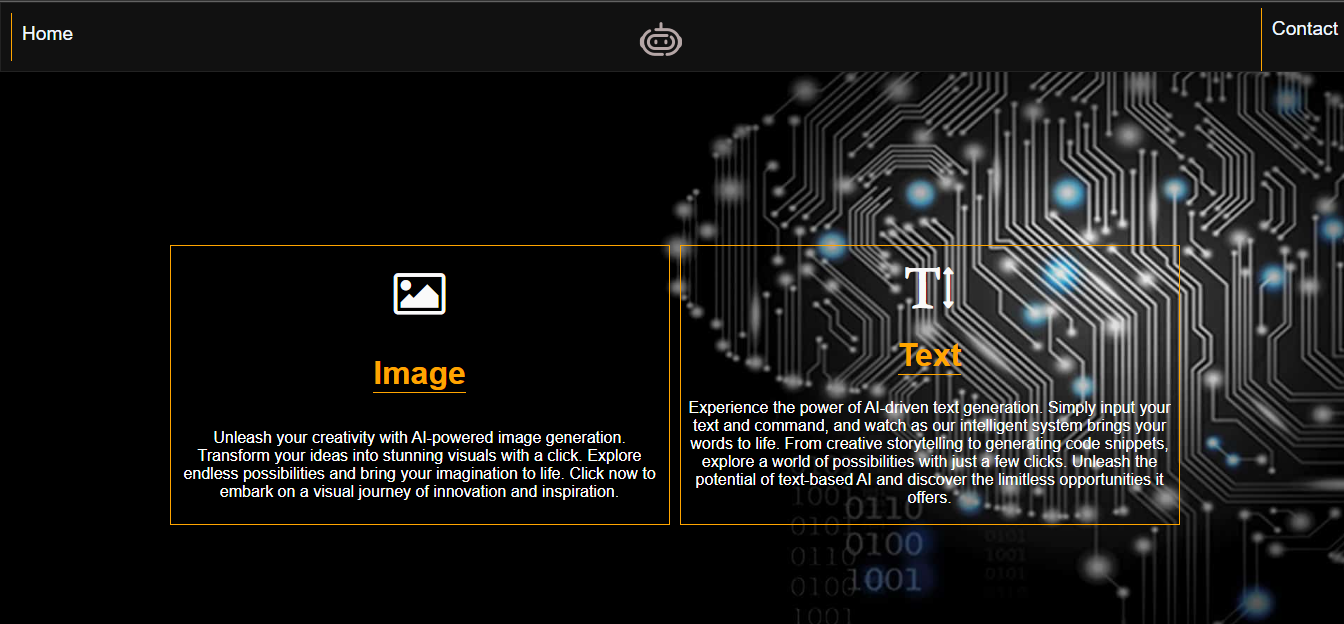
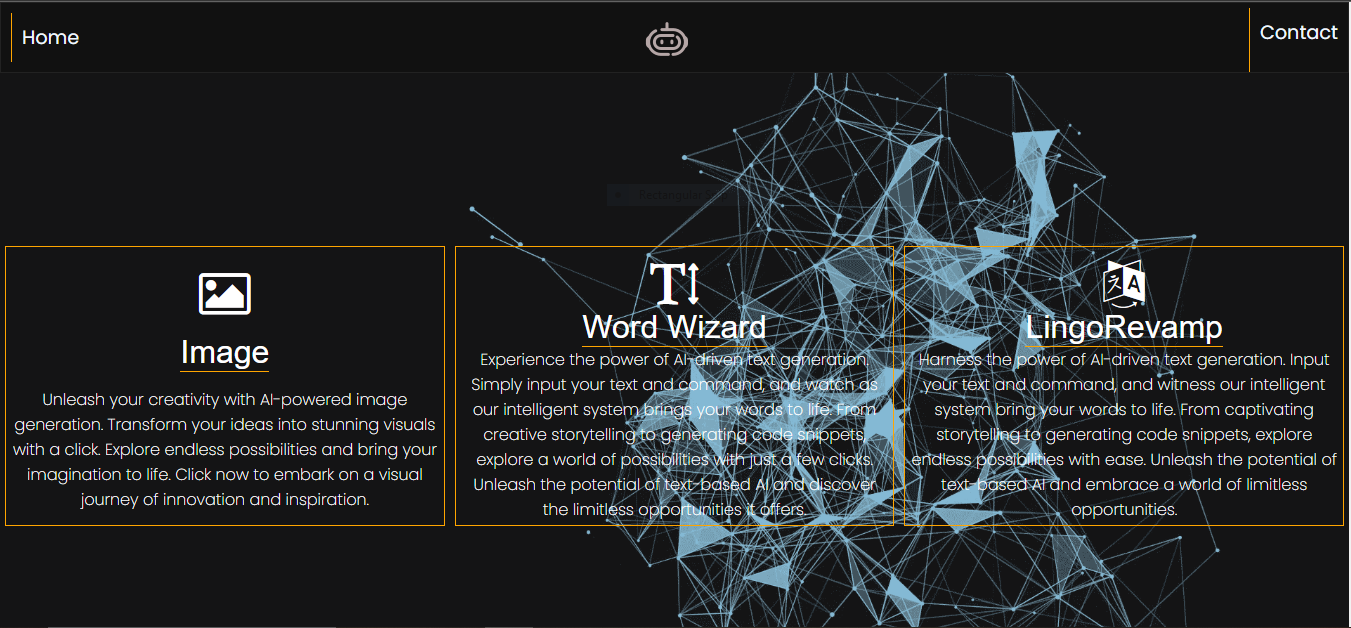
adding previous projects

diff --git a/index.html b/index.html
@@ -125,7 +125,7 @@ Let's collaborate and transform your ideas into reality! Contact me today to dis
               src="./src/images/Imagilingo.png"
               alt="Imagilingo.picture"
             />
-            <h3>Project Two</h3>
+            <h3>ImagiLingo</h3>
             <p class="subtext">Introducing Imagilingo, the ultimate fusion of images and language. This AI-powered web app is your creative companion and language guru. With just a few clicks, Imagilingo brings your text to life as captivating images.</p>
             <hr>
             <p class="subtext"><a class="project-link" href="https://imagi-lingo.vercel.app/">View here</a></p>
@@ -133,24 +133,24 @@ Let's collaborate and transform your ideas into reality! Contact me today to dis
             <div class="project-card">
               <img
                 class="project_img"
-                src="./src/images/youtube_profile_image.png"
+                src="./src/images/BotLangua.PNG"
                 alt="Imagilingo.picture"
               />
-              <h3>Project Three</h3>
-              <p class="subtext">This is my project and some text about it.</p>
+              <h3>BotLingua</h3>
+              <p class="subtext">BotLangua with Text-to-Speech allows you to engage in conversations with an intelligent ChatBot.  Utilize the built-in Text-to-Speech feature to listen to the ChatBot's answers in your chosen language.</p>
               <hr>
-              <p class="subtext"><a class="project-link" href="#">View here</a></p>
+              <p class="subtext"><a class="project-link" href="https://bot-lingua.vercel.app/">View here</a></p>
               </div>
               <div class="project-card">
                 <img
                   class="project_img"
-                  src="./src/images/youtube_profile_image.png"
+                  src="./src/images/Vocalvortex.PNG"
                   alt="Background_generator.picture"
                 />
-                <h3>Project Four></h3>
-                <p class="subtext">This is my project and some text about it.</p>
+                <h3>Vocal Vortex</h3>
+                <p class="subtext">A Multilingual TTS Journey! realm of vast texts and instant summaries. Effortlessly switch between languages, hear lifelike spoken responses etc. With this, reading becomes a captivating adventure.</p>
                 <hr>
-                <p class="subtext"><a class="project-link" href="#">View here</a></p>
+                <p class="subtext"><a class="project-link" href="https://vocal-vortex-front-end.vercel.app/">View here</a></p>
                 </div>
         </div>
 

diff --git a/src/style.css b/src/style.css
@@ -110,7 +110,7 @@ h2{
 .project-card{
     padding: 10px;
     width:200px;
-    height: 500px;
+    height: auto;
     box-shadow: 5px 5px 20px grey;
     margin: 10px;
 }
@@ -126,8 +126,8 @@ h2{
 }
 .project_img{
     margin-top: 25px;
-   width: 150px;
-   height: 150px;
+   width: 160px;
+   height: 160px;
    border-radius: 125px;
 }
 hr{
